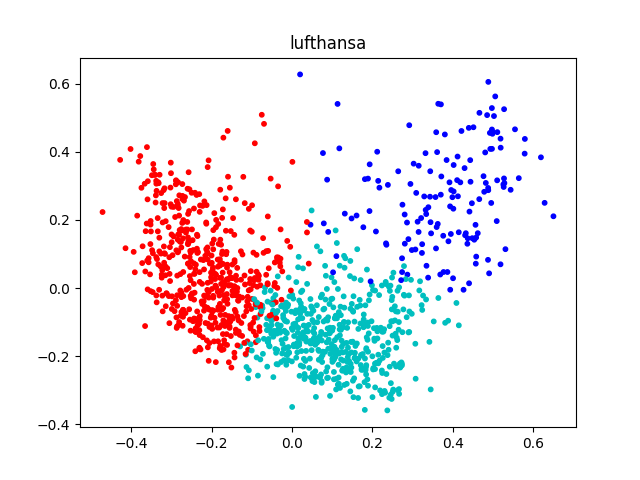
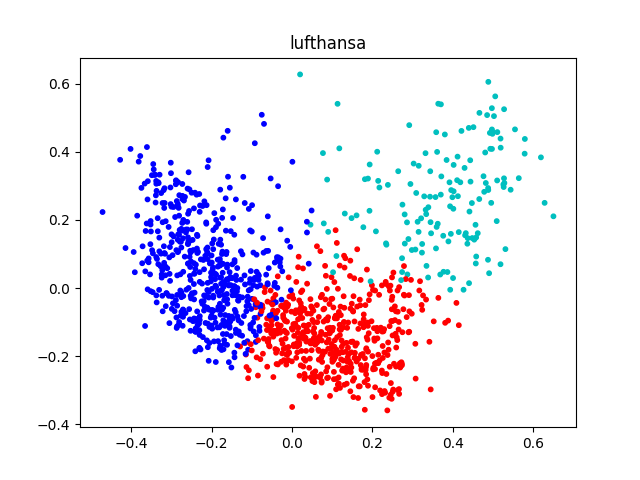
clustry k-means oraz topics z tf-idf przechodza dalej w LDA w celu poglebienia analizy. Wczesniej gubilem ktory cluster jest ktorym i robilem kombinacje

diff --git a/matthausITberatung/DataMining/tfidf/tf-idf.py b/matthausITberatung/DataMining/tfidf/tf-idf.py
@@ -1,4 +1,5 @@
 import matplotlib.pyplot as plt
+import pandas as pd
 from sklearn.cluster import KMeans
 from sklearn.decomposition import PCA
 
@@ -10,43 +11,43 @@ airlines = PathsManager().LIST_OF_AIRLINES
 # our desired number of clusters
 numberOfClusters = 3
 
-components = airlines
-# components.append('commondata')
+opinionsPerAirline = ObjectsManager().getSavedObject('dataDictOfClearedOpinions')
 
 dictOfDictOfAirlnesClusters = {}
-for component in components:
+dictOfDictsOfAirlinesClustersOpinions = {}
+vectorizer = ObjectsManager().getSavedObject('vectorizer')
+for airline in airlines:
     plt.clf()
-    vectorizer = ObjectsManager().getSavedObject('vectorizer')
-    vectors = ObjectsManager().getSavedObject(component + 'vectors')
+    vectors = vectorizer.fit_transform(opinionsPerAirline[airline])
+    # vectors = ObjectsManager().getSavedObject(airline + 'vectors')
     feature_names = vectorizer.get_feature_names()
-    model = KMeans(n_clusters=numberOfClusters, n_init=1, max_iter=100, init="k-means++")
-    model.fit(vectors)
-    order_centroids = model.cluster_centers_.argsort()[:, ::-1]
-    print("######## " + component + " #########")
+    k_means = KMeans(n_clusters=numberOfClusters, n_init=1, max_iter=100, init="k-means++")
+    k_means.fit(vectors)
+    clusters = k_means.labels_
+    df = pd.DataFrame({'opinion': opinionsPerAirline[airline], 'cluster': clusters})
+    # Create dict where cluster number is key and list of opinions is value
+    # add this dict as a value of bigger dict
+    dictOfDictsOfAirlinesClustersOpinions[airline] = df.groupby('cluster')['opinion'].apply(list).to_dict()
+    order_centroids = k_means.cluster_centers_.argsort()[:, ::-1]
+    print("######## " + airline + " #########")
     dictOfClusters = {}
     for i in range(numberOfClusters):
         print("cluster " + str(i) + "\n")
         for centorid in order_centroids[i, :20]:
             print(feature_names[centorid])
         print("\n")
-        helperList = []
-        for centorid in order_centroids[i]:
-            helperList.append(feature_names[centorid])
-        dictOfClusters[i] = helperList
 
-    dictOfDictOfAirlnesClusters[component] = dictOfClusters
-
-    kMeanIndices = model.fit_predict(vectors)
+    kMeanIndices = k_means.fit_predict(vectors)
     pca = PCA(n_components=2)
     scatterPlotPoints = pca.fit_transform(vectors.toarray())
     xAxis = [pointX[0] for pointX in scatterPlotPoints]
     yAxis = [pointY[1] for pointY in scatterPlotPoints]
     colors = ["r", "b", "c", "y", "m"]
     plt.scatter(x=xAxis, y=yAxis, c=[colors[d] for d in kMeanIndices], s=10)
-    plt.title(component)
-    plt.savefig(str(component) + ".png")
+    plt.title(airline)
+    plt.savefig(str(airline) + ".png")
 
-ObjectsManager().saveObject(dictOfDictOfAirlnesClusters, 'dictOfDictOfAirlnesClusters')
+ObjectsManager().saveObject(dictOfDictsOfAirlinesClustersOpinions, 'dictOfDictsOfAirlinesClustersOpinions')
 
 print("\n")
 print("####### TF-IDF finished######")

diff --git a/matthausITberatung/DataMining/LDA/TopicModelling.py b/matthausITberatung/DataMining/LDA/TopicModelling.py
@@ -7,15 +7,18 @@ from sklearn.decomposition import LatentDirichletAllocation
 
 from matthausITberatung.DataMining.LDA.Utils import Utils
 from matthausITberatung.DataMining.tfidf.clustering.ClusterCreator import ClusterCreator
+from matthausITberatung.objectsManager.ObjectsManager import ObjectsManager
 
 
 class TopicModelling:
 #TODO: zrobic dla bigrams i trigrams. dla kazdej linii lotniczej oraz dla wszystkich opinii
 
-    def __init__(self, listOfOpinions, clusterNumber):
-        self.clusterCreator = ClusterCreator()
-        self.listOfClusters = self.clusterCreator.tfidf_createClusters(listOfOpinions)
-        self.chosen_cluster = self.listOfClusters[clusterNumber]
+    def __init__(self, airline, clusterNumber):
+        # self.clusterCreator = ClusterCreator()
+        # self.listOfClusters = self.clusterCreator.tfidf_createClusters(listOfOpinions)
+        # self.chosen_cluster = self.listOfClusters[clusterNumber]
+        self.dictOfDictsOfAirlinesClustersOpinions = ObjectsManager().getSavedObject('dictOfDictsOfAirlinesClustersOpinions')
+        self.chosen_cluster = self.dictOfDictsOfAirlinesClustersOpinions[airline][clusterNumber]
         # Tokenize chosen cluster
         self.cluster_tokenized = [word_tokenize(opinion) for opinion in self.chosen_cluster]
         # Create dictionary

diff --git a/matthausITberatung/DataMining/tfidf/preTfidf.py b/matthausITberatung/DataMining/tfidf/preTfidf.py
@@ -3,23 +3,18 @@ from matthausITberatung.objectsManager.PathsManager import PathsManager
 from sklearn.feature_extraction.text import TfidfVectorizer
 
 opinionsPerAirline = ObjectsManager().getSavedObject('dataDictOfClearedOpinions')
-# opinionsPerAirline = ObjectsManager().getSavedObject('dictOfBigramedOpinions')
-# listOfWholeOpinions = ObjectsManager().getSavedObject('listOfWholeOpinions')
 
 vectorizer = TfidfVectorizer(
     lowercase=True,
-    max_features=2000,
+    max_features=100,
     max_df=0.8,
     min_df=5,
     ngram_range=(1,3),
     stop_words=ObjectsManager().getSavedObject(PathsManager().UNION_STOP_WORDS)
 )
 
-# commondatavectors = vectorizer.fit_transform(listOfWholeOpinions)
-# ObjectsManager().saveObject(commondatavectors, 'commondatavectors')
-
-for airline in PathsManager().LIST_OF_AIRLINES:
-    ObjectsManager().saveObject(vectorizer.fit_transform(opinionsPerAirline[airline]), str(airline)+'vectors')
+# for airline in PathsManager().LIST_OF_AIRLINES:
+#     ObjectsManager().saveObject(vectorizer.fit_transform(opinionsPerAirline[airline]), str(airline)+'vectors')
 
 ObjectsManager().saveObject(vectorizer, 'vectorizer')
 

diff --git a/matthausITberatung/DataMining/LDA/Main.py b/matthausITberatung/DataMining/LDA/Main.py
@@ -9,7 +9,8 @@ opinionsPerAirline = objectsManager.getSavedObject('opinionsPerAirline')
 listOfWholeOpinions = objectsManager.getSavedObject('listOfWholeOpinions')
 
 #(listOfOpinions, clusterNumber)
-topicModelling = TopicModelling(opinionsPerAirline['ryanair'], 2)
+# topicModelling = TopicModelling(opinionsPerAirline['ryanair'], 2)
+topicModelling = TopicModelling('ryanair', 2)
 
 def process(topicModelling):
     # Prepare list of clusters
